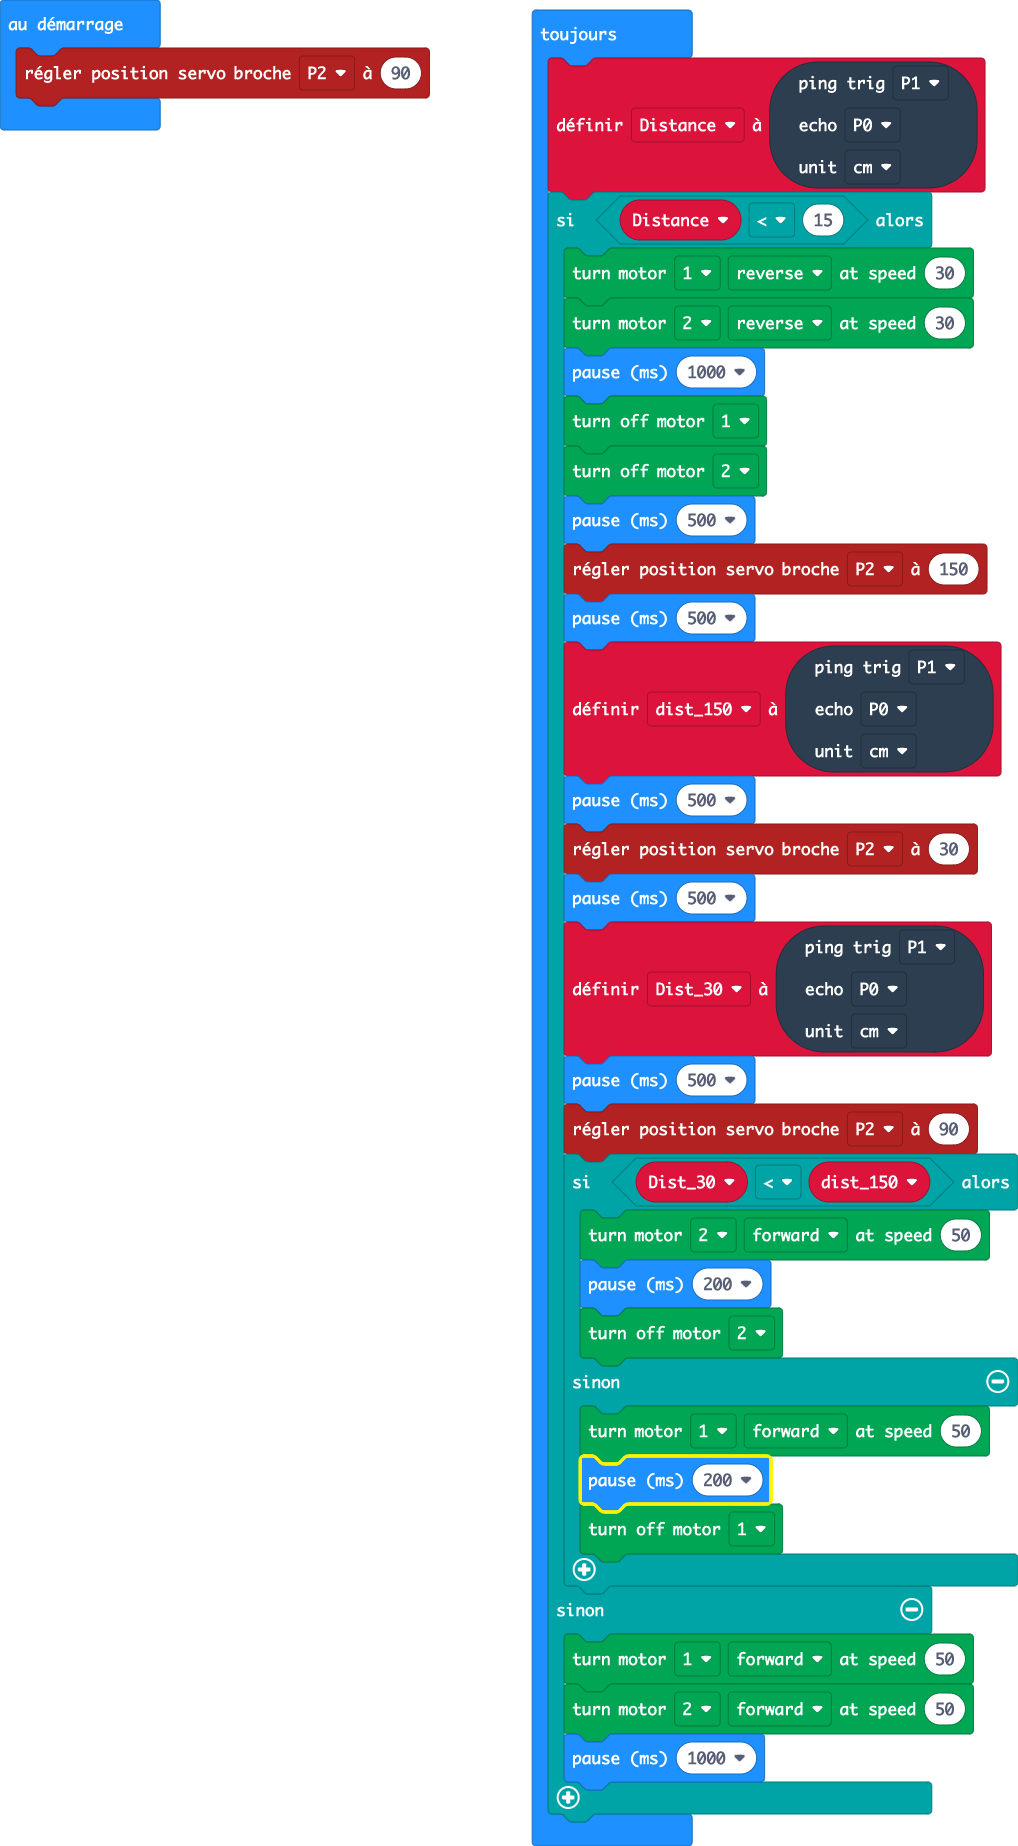
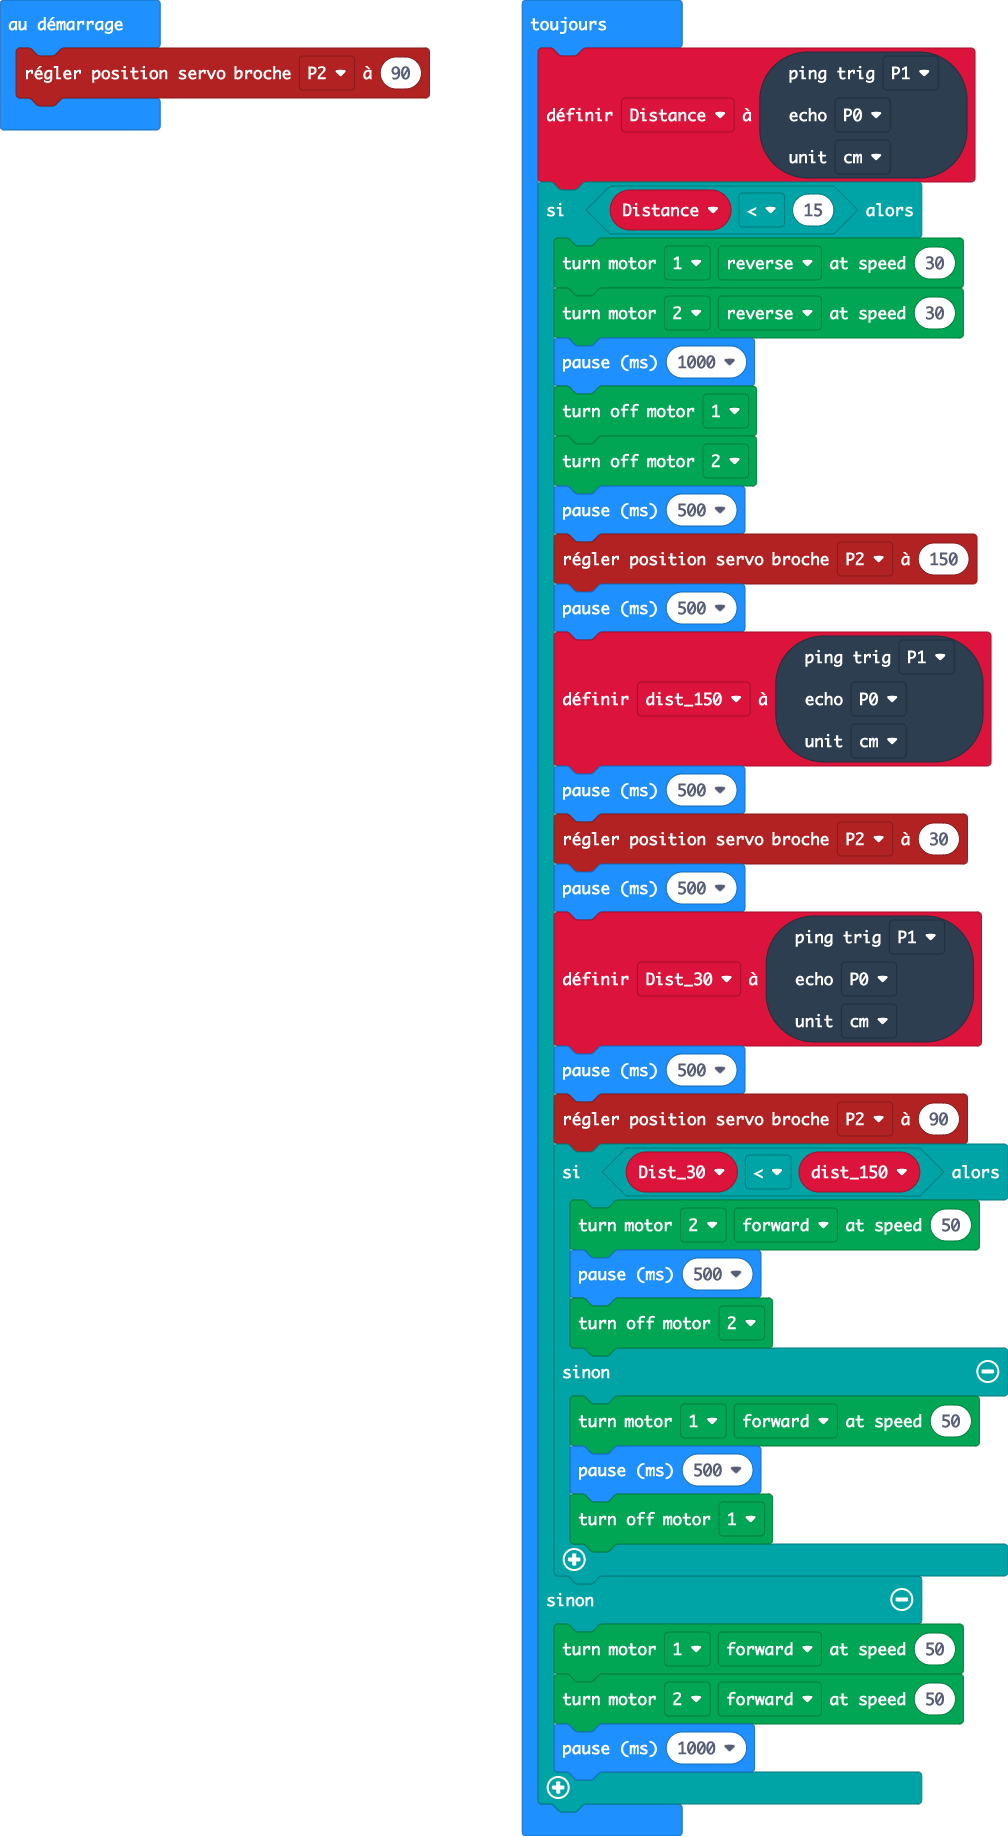
Mise à jour pxt.json, main.blocks, main.ts, main.py

Changed region(s): [[0.4921, 0.0, 1.0, 1.0], [0.0308, 0.0, 0.4306, 0.0621], [0.6766, 0.9935, 0.7073, 1.0]]

diff --git a/main.ts b/main.ts
@@ -34,11 +34,11 @@ basic.forever(function () {
         pins.servoWritePin(AnalogPin.P2, 90)
         if (Dist_30 < dist_150) {
             kitronik_klip_motor.motorOn(kitronik_klip_motor.Motors.Motor2, kitronik_klip_motor.MotorDirection.Forward, 50)
-            basic.pause(200)
+            basic.pause(300)
             kitronik_klip_motor.motorOff(kitronik_klip_motor.Motors.Motor2)
         } else {
             kitronik_klip_motor.motorOn(kitronik_klip_motor.Motors.Motor1, kitronik_klip_motor.MotorDirection.Forward, 50)
-            basic.pause(200)
+            basic.pause(300)
             kitronik_klip_motor.motorOff(kitronik_klip_motor.Motors.Motor1)
         }
     } else {

diff --git a/main.py b/main.py
@@ -1,51 +1,49 @@
-Dist_0 = 0
-dist_180 = 0
+Dist_30 = 0
+dist_150 = 0
 Distance = 0
 pins.servo_write_pin(AnalogPin.P2, 90)
 
 def on_forever():
-    global Distance, dist_180, Dist_0
+    global Distance, dist_150, Dist_30
     Distance = sonar.ping(DigitalPin.P1, DigitalPin.P0, PingUnit.CENTIMETERS)
-    basic.show_number(Distance)
     if Distance < 15:
         kitronik_klip_motor.motor_on(kitronik_klip_motor.Motors.MOTOR1,
             kitronik_klip_motor.MotorDirection.REVERSE,
-            50)
+            30)
         kitronik_klip_motor.motor_on(kitronik_klip_motor.Motors.MOTOR2,
             kitronik_klip_motor.MotorDirection.REVERSE,
-            50)
+            30)
         basic.pause(1000)
         kitronik_klip_motor.motor_off(kitronik_klip_motor.Motors.MOTOR1)
         kitronik_klip_motor.motor_off(kitronik_klip_motor.Motors.MOTOR2)
         basic.pause(500)
-        pins.servo_write_pin(AnalogPin.P2, 180)
+        pins.servo_write_pin(AnalogPin.P2, 150)
         basic.pause(500)
-        dist_180 = sonar.ping(DigitalPin.P1, DigitalPin.P0, PingUnit.CENTIMETERS)
+        dist_150 = sonar.ping(DigitalPin.P1, DigitalPin.P0, PingUnit.CENTIMETERS)
         basic.pause(500)
-        pins.servo_write_pin(AnalogPin.P2, 0)
+        pins.servo_write_pin(AnalogPin.P2, 30)
         basic.pause(500)
-        Dist_0 = sonar.ping(DigitalPin.P1, DigitalPin.P0, PingUnit.CENTIMETERS)
+        Dist_30 = sonar.ping(DigitalPin.P1, DigitalPin.P0, PingUnit.CENTIMETERS)
         basic.pause(500)
-        if Dist_0 < dist_180:
-            kitronik_klip_motor.motor_on(kitronik_klip_motor.Motors.MOTOR1,
-                kitronik_klip_motor.MotorDirection.FORWARD,
-                80)
-            basic.pause(1000)
-            kitronik_klip_motor.motor_off(kitronik_klip_motor.Motors.MOTOR1)
-        else:
+        pins.servo_write_pin(AnalogPin.P2, 90)
+        if Dist_30 < dist_150:
             kitronik_klip_motor.motor_on(kitronik_klip_motor.Motors.MOTOR2,
                 kitronik_klip_motor.MotorDirection.FORWARD,
-                80)
-            basic.pause(1000)
+                50)
+            basic.pause(500)
             kitronik_klip_motor.motor_off(kitronik_klip_motor.Motors.MOTOR2)
-        basic.show_icon(IconNames.NO)
+        else:
+            kitronik_klip_motor.motor_on(kitronik_klip_motor.Motors.MOTOR1,
+                kitronik_klip_motor.MotorDirection.FORWARD,
+                50)
+            basic.pause(500)
+            kitronik_klip_motor.motor_off(kitronik_klip_motor.Motors.MOTOR1)
     else:
         kitronik_klip_motor.motor_on(kitronik_klip_motor.Motors.MOTOR1,
             kitronik_klip_motor.MotorDirection.FORWARD,
-            80)
+            50)
         kitronik_klip_motor.motor_on(kitronik_klip_motor.Motors.MOTOR2,
             kitronik_klip_motor.MotorDirection.FORWARD,
-            80)
-        basic.show_icon(IconNames.YES)
+            50)
         basic.pause(1000)
 basic.forever(on_forever)
